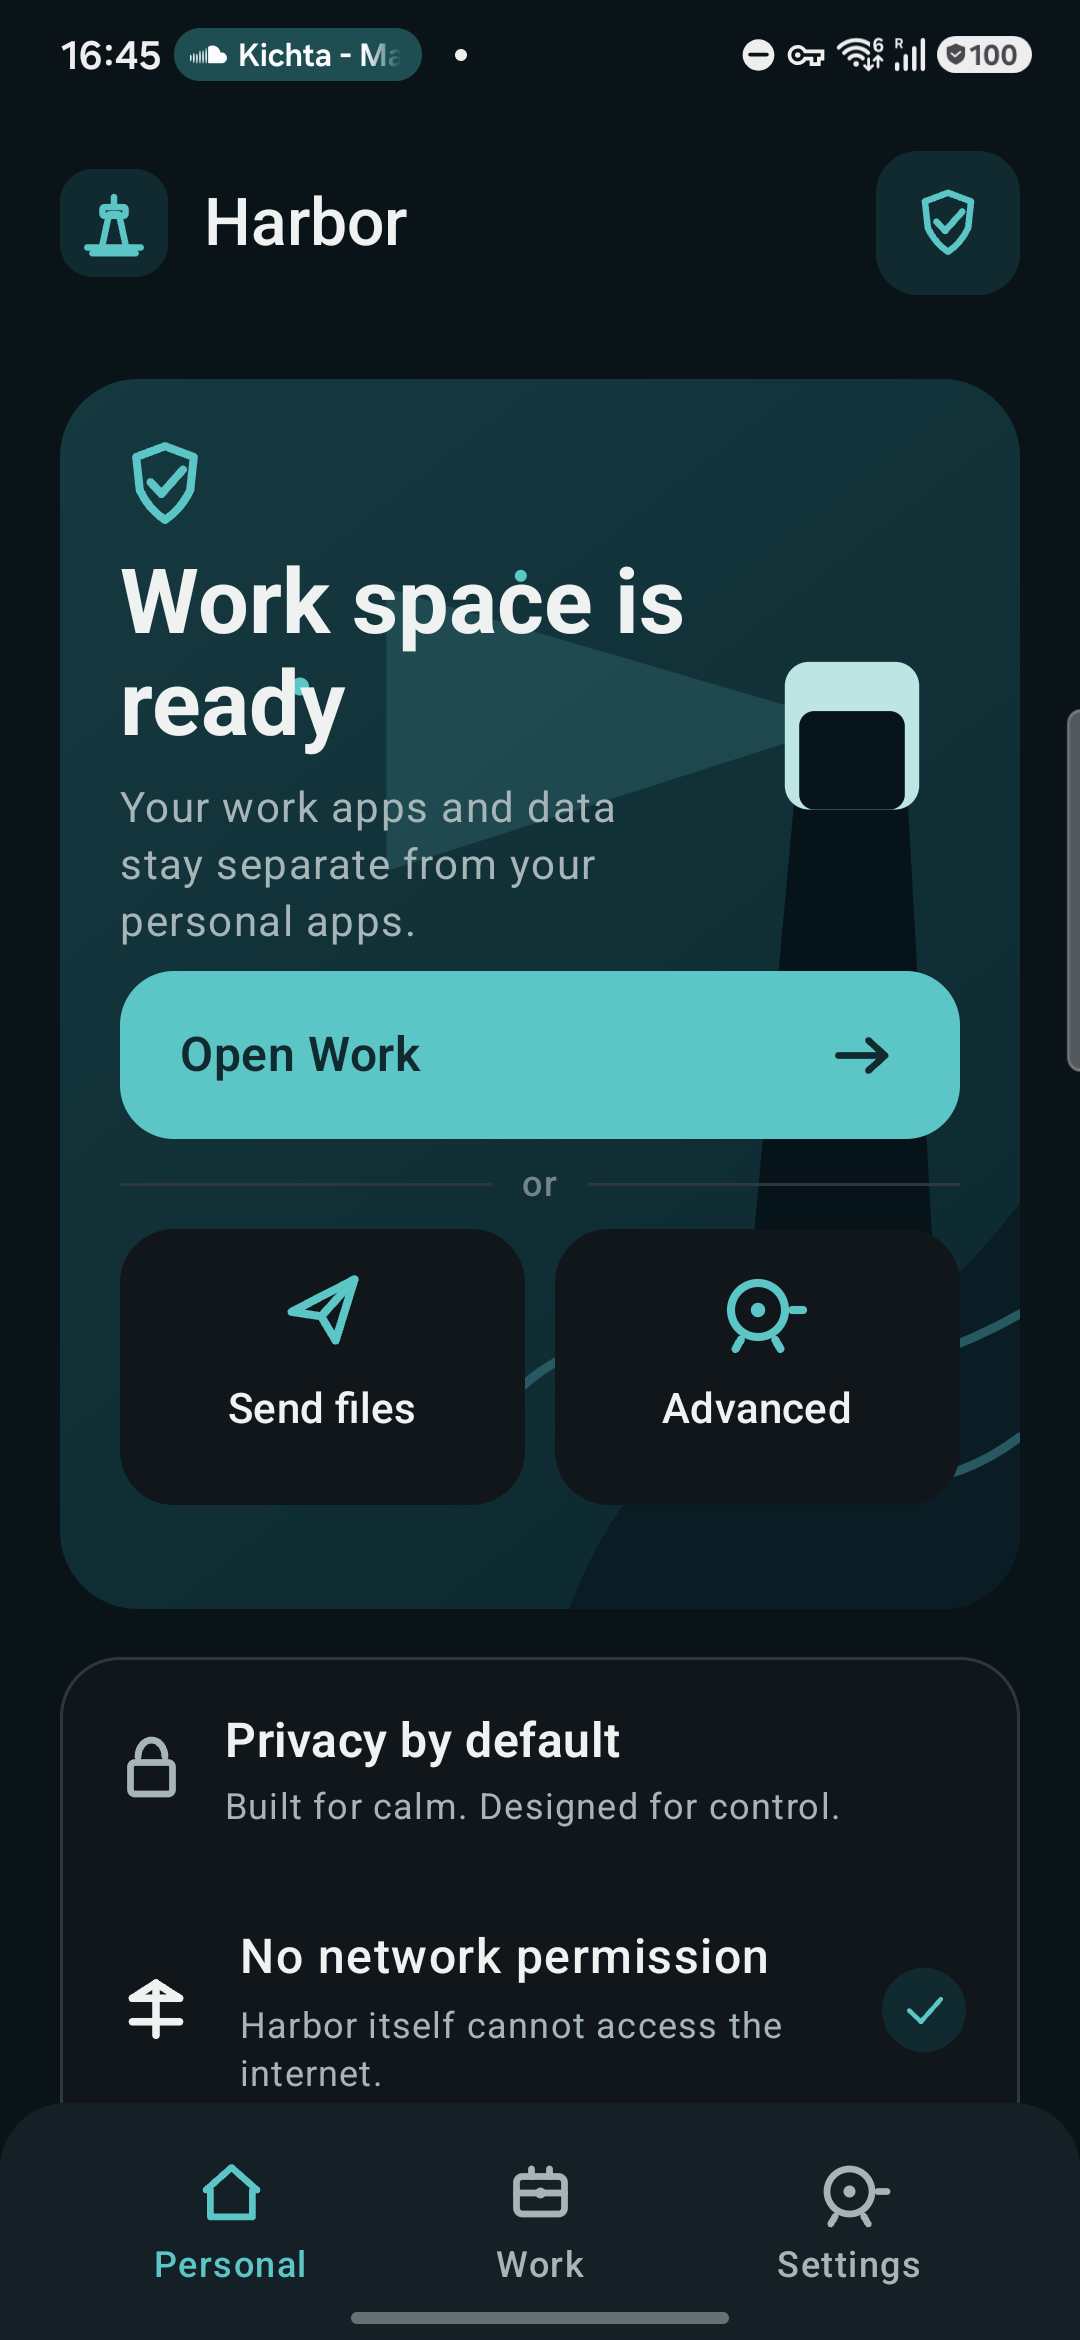
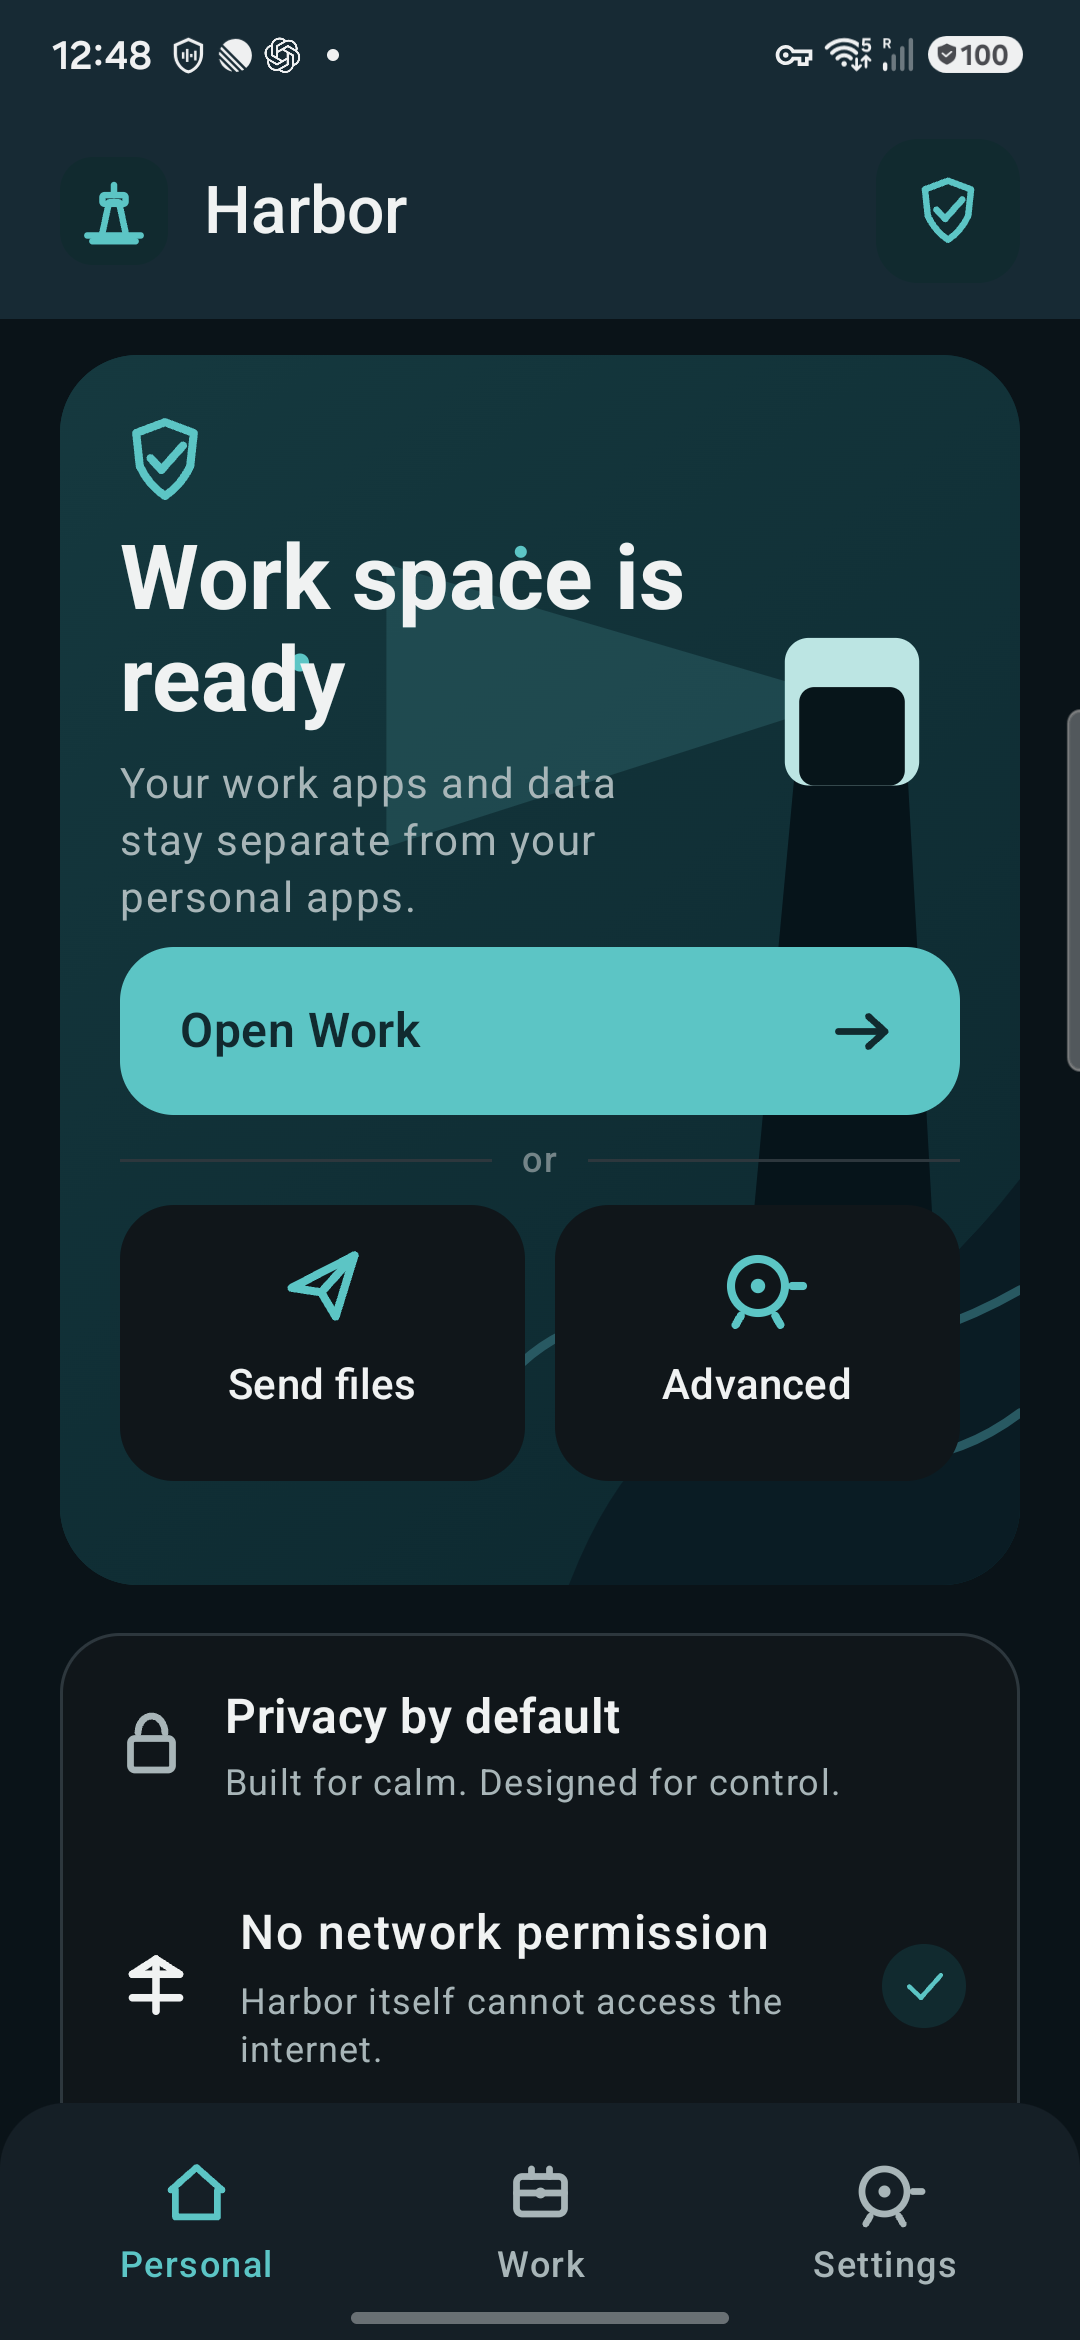
Add spacing below Personal header

diff --git a/app/src/main/java/com/monstera/harbor/ui/PersonalProfileScreen.kt b/app/src/main/java/com/monstera/harbor/ui/PersonalProfileScreen.kt
@@ -163,7 +163,13 @@ fun PersonalProfileScreen(
         },
     ) { padding ->
         Column(
-            modifier = Modifier.fillMaxSize().background(HarborColors.bgPersonal).padding(padding).verticalScroll(rememberScrollState()).padding(horizontal = HarborSpacing.screen),
+            modifier = Modifier
+                .fillMaxSize()
+                .background(HarborColors.bgPersonal)
+                .padding(padding)
+                .verticalScroll(rememberScrollState())
+                .padding(horizontal = HarborSpacing.screen)
+                .padding(top = 12.dp),
             verticalArrangement = Arrangement.spacedBy(16.dp),
         ) {
             Direction2Hero(

diff --git a/docs/design/PR6_FINAL_VALIDATION_CHECKLIST.md b/docs/design/PR6_FINAL_VALIDATION_CHECKLIST.md
@@ -6,8 +6,8 @@ Do not mark an item as passed unless it was actually exercised on the recorded b
 
 ## Validation record
 
-- Latest final code head: `1625232`
-- Latest physically validated Personal runtime: `1625232`
+- Latest final code head: `TBD — record after this spacing-fix commit`
+- Latest physically validated Personal runtime: `TBD — reinstall after this spacing-fix commit`
 - Latest physically validated Work runtime: `1625232`
 - APK/build: `app/build/outputs/apk/release/app-release-unsigned.apk` — version `0.2.0-alpha05` (versionCode `7`)
 - Date: `2026-08-13`
@@ -261,7 +261,7 @@ rendering was not exercised here.
 - [x] Release build passes.
 - [x] SBOM generation passes.
 - [x] Prohibited-permission verification passes.
[2 lines of base64/hex data omitted]
 - [x] Diff/whitespace validation passes.
 - [x] No unresolved P1/P2 review finding remains in the reviewed scope.
 - [x] Documentation matches the implementation actually present in PR #6.
